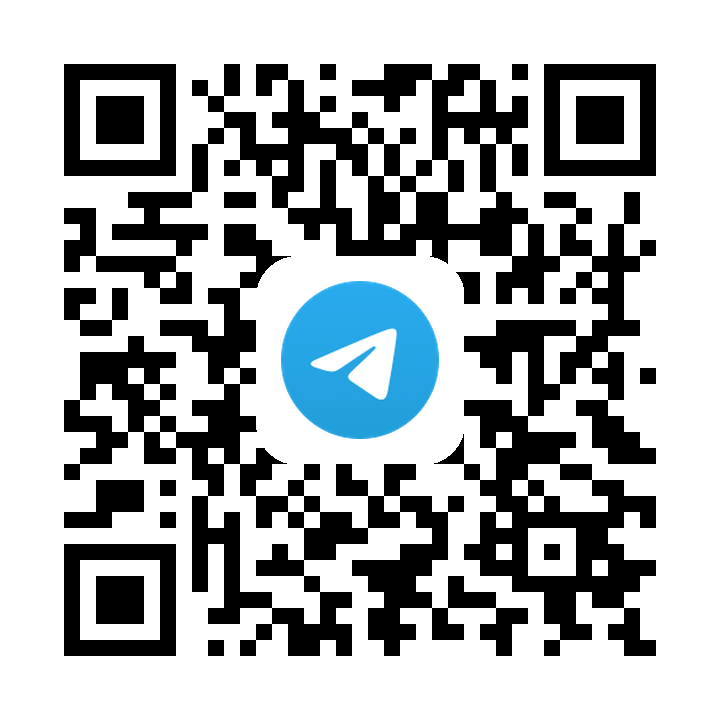
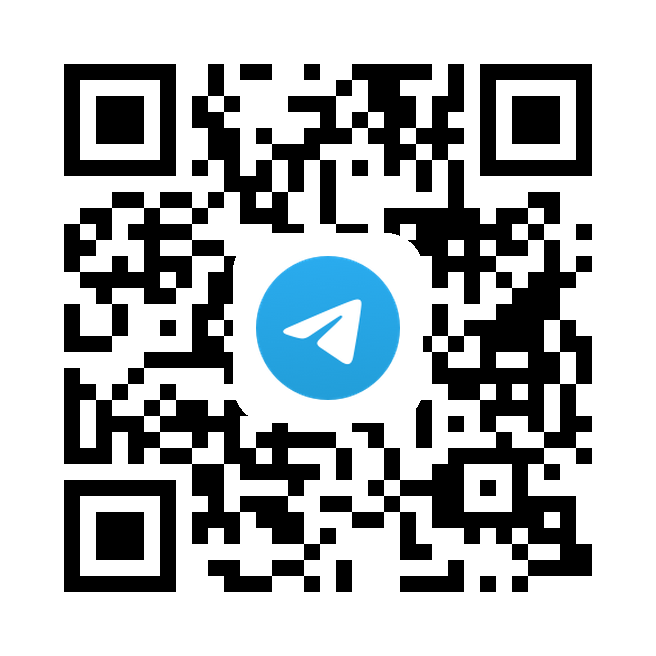
Update profile with app/faucet/admin direct-link QR codes

diff --git a/profile/README.md b/profile/README.md
@@ -5,12 +5,18 @@
 <div align="center">
   <h4>Scan to open</h4>
   <p>
-    <a href="https://t.me/GaterRobot" target="_blank">
-      <img width="220" height="220" alt="QR code to open @GaterRobot on Telegram" src="./img/gaterrobot-telegram-qr.png" />
+    <a href="https://t.me/GaterRobot/app" target="_blank">
+      <img width="220" height="220" alt="QR code for Gater Robot mini app direct link" src="./img/gaterrobot-telegram-qr.png" />
     </a>
-    <a href="https://t.me/GaterRobot/app?startapp=faucet" target="_blank">
-      <img width="220" height="220" alt="QR code for Gater Robot mini app faucet deep link" src="./img/gaterrobot-faucet-deeplink-qr.png" />
+    <a href="https://t.me/GaterRobot/faucet" target="_blank">
+      <img width="220" height="220" alt="QR code for Gater Robot mini app BEST Faucet direct link" src="./img/gaterrobot-faucet-deeplink-qr.png" />
     </a>
+    <a href="https://t.me/GaterRobot/admin" target="_blank">
+      <img width="220" height="220" alt="QR code for Gater Robot mini app admin direct link" src="./img/gaterrobot-admin-qr.png" />
+    </a>
+  </p>
+  <p>
+    Direct links: <a href="https://t.me/GaterRobot/app" target="_blank">/app</a> · <a href="https://t.me/GaterRobot/faucet" target="_blank">/faucet</a> · <a href="https://t.me/GaterRobot/admin" target="_blank">/admin</a> · <a href="https://t.me/GaterRobot/lifi" target="_blank">/lifi</a>
   </p>
 </div>
 
